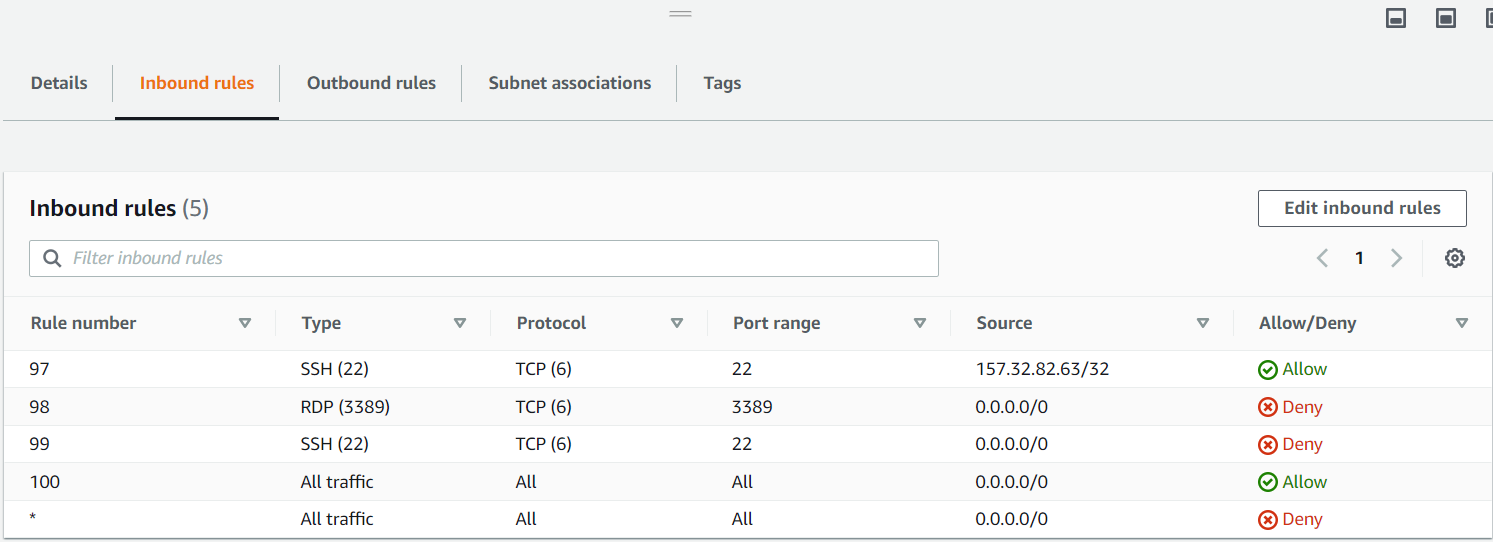
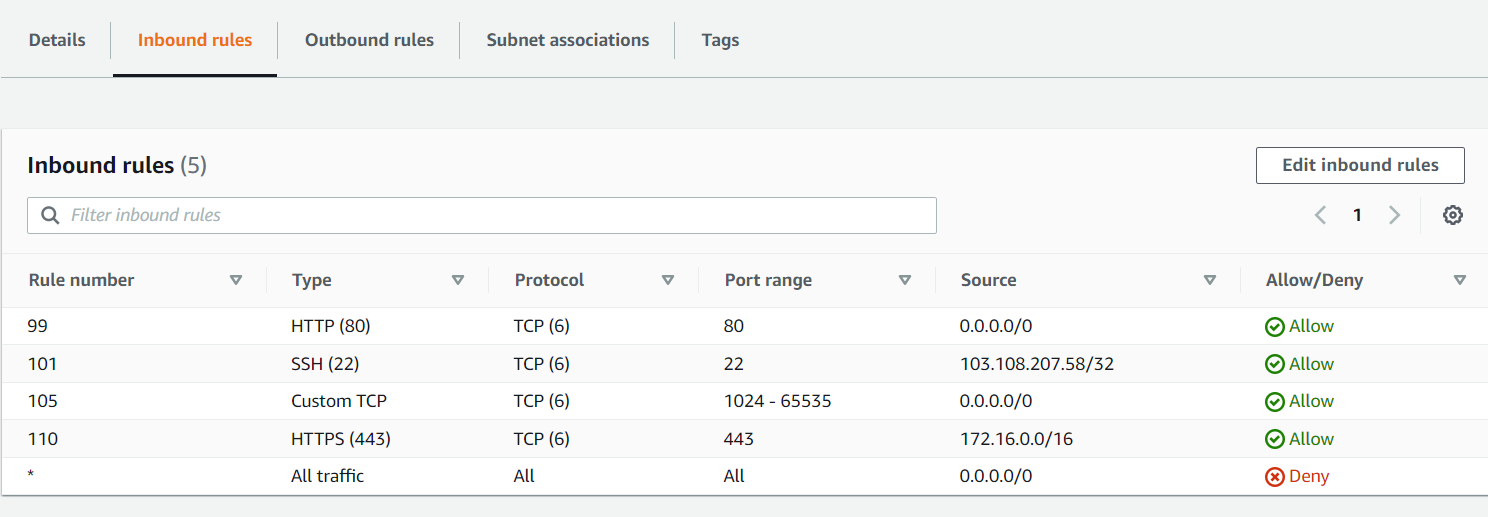
updating to latest
Adding updated files

diff --git a/README.md b/README.md
@@ -109,15 +109,18 @@ If you have your existing resources available, refer [ Customize Infrastructure 
 
 *Notes* <br/>
 *  *If you select **True** in **Create Application Load Balancer?**, then following implementations are applicable.* <br/>
-    * *Access logs for ALB will be enabled.* <br/>
-    * *S3 bucket and a respective bucket policy will be created for storing access logs of ALB. The name of ALB S3 bucket will be assigned as per the format given below.* <br/>
-    *Format: nce-REGION-STACK_ID* <br/>
-    *Example: nce-us-west-2-24c538a0-244d-11ed-9b54-025f9a3a09a6* <br/>
-	* *S3 logging bucket and a respective logging bucket policy will be created for storing server access logs of above-created ALB S3 bucket. The name of S3 logging bucket will be automatically assigned by the CloudFormation.* <br/>
-	*Format: STACK_NAME-loggingbucket-RANDOM_ALPHANUMERIC_STRING* <br/>
-	*Example: nce-loggingbucket-1aln42m8gv711* <br/>
+    * *Access logs for ALB will be enabled.*
+    * *S3 bucket and a respective bucket policy will be created for storing access logs of ALB. The name of S3 bucket will be assigned as per the format given below.* <br/>
+    *Format: netskope-ce-s3events-logs-STACK_ID* <br/>
+    *Example: netskope-ce-s3events-logs-24c538a0-244d-11ed-9b54-025f9a3a09a6* <br/>
+  	* *S3 logging bucket and a respective logging bucket policy will be created for storing server access logs of above-created ALB S3 bucket. The name of S3 logging bucket will be assigned as per the format given below.*
+    <br/>
+    *Format: netskope-ce-alb-logs-STACK_ID* <br/>
+    *Example: netskope-ce-alb-logs-24c538a0-244d-11ed-9b54-025f9a3a09a6* <br/>
     * *You can view logs in both these S3 buckets after stack creation.* <br/>
-	* *Post stack creation, for security reasons, it is recommended to enable bucket notifications manually for both the buckets created above by CloudFormation - [Ref](https://docs.aws.amazon.com/securityhub/latest/userguide/securityhub-standards-fsbp-controls.html#fsbp-s3-11).* <br/>
+	  * *Post stack creation, for security reasons, it is recommended to enable bucket notifications manually for both the buckets created above by CloudFormation - [Ref](https://docs.aws.amazon.com/securityhub/latest/userguide/securityhub-standards-fsbp-controls.html#fsbp-s3-11).* <br/>
+    * *HTTP listeners of Application Load Balancers aren't configured to redirect HTTP requests to HTTPS, based upon the best practices followed in organizations, HTTP listeners of ALB can be configured to redirect all HTTP requests to HTTPS.*
+    <br/>
 * *If you select **False** in **Create Application Load Balancer?**, then following implementations are applicable.* <br/>
   * *If you have selected **False** in **Create Application Load Balancer?** and **Existing ARN of target group for ALB** field is **Blank** - No ALB will be created.* <br/>
   * *If you have selected **False** in **Create Application Load Balancer?** and **Existing ARN of target group for ALB** field is **Provided** - Existing ALB will be Used.* <br/>
@@ -132,7 +135,8 @@ Enter the VPC name and CIDR Ranges for VPC, Private, and Public Subnets accordin
 
 *Notes* <br/>
 * *For security reasons, we have implemented in a way that,*
-  *  *The default Network ACL will allow ingress for all the traffic other than port 22 and 3389 from 0.0.0.0/0.*
+  * *The default Network ACL will allow ingress for all the traffic only for the port range of 1024-65535 from 0.0.0.0/0.*
+  * *The default Network ACL will allow ingress for port 443 from VPC CIDR only.*
   * *The VPC default security group will not allow any inbound and outbound traffic.*
 
 ![](./media/NETSKOPE-CE-Stack-NW-Details.png)
@@ -223,13 +227,16 @@ After the successful creation, you can see the list of resources by selecting th
 *  *If you select **True** in **Create Application Load Balancer?**, then following implementations are applicable.* <br/>
     * *Access logs for ALB will be enabled.* <br/>
     * *S3 bucket and a respective bucket policy will be created for storing access logs of ALB. The name of S3 bucket will be assigned as per the format given below.* <br/>
-    *Format: nce-REGION-STACK_ID* <br/>
-    *Example: nce-us-west-2-24c538a0-244d-11ed-9b54-025f9a3a09a6* <br/>
-	* *S3 logging bucket and a respective logging bucket policy will be created for storing server access logs of above-created ALB S3 bucket. The name of S3 logging bucket will be automatically assigned by the CloudFormation.* <br/>
-	*Format: STACK_NAME-loggingbucket-RANDOM_ALPHANUMERIC_STRING* <br/>
-	*Example: nce-loggingbucket-1aln42m8gv711* <br/>
+    *Format: netskope-ce-s3events-logs-STACK_ID* <br/>
+    *Example: netskope-ce-s3events-logs-24c538a0-244d-11ed-9b54-025f9a3a09a6* <br/>
+  	* *S3 logging bucket and a respective logging bucket policy will be created for storing server access logs of above-created ALB S3 bucket. The name of S3 logging bucket will be assigned as per the format given below.*
+    <br/>
+    *Format: netskope-ce-alb-logs-STACK_ID* <br/>
+    *Example: netskope-ce-alb-logs-24c538a0-244d-11ed-9b54-025f9a3a09a6* <br/>
     * *You can view logs in both these S3 buckets after stack creation.* <br/>
-	* *Post stack creation, for security reasons, it is recommended to enable bucket notifications manually for both the buckets created above by CloudFormation - [Ref](https://docs.aws.amazon.com/securityhub/latest/userguide/securityhub-standards-fsbp-controls.html#fsbp-s3-11).* <br/>
+	  * *Post stack creation, for security reasons, it is recommended to enable bucket notifications manually for both the buckets created above by CloudFormation - [Ref](https://docs.aws.amazon.com/securityhub/latest/userguide/securityhub-standards-fsbp-controls.html#fsbp-s3-11).* <br/>
+    * *HTTP listeners of Application Load Balancers aren't configured to redirect HTTP requests to HTTPS, based upon the best practices followed in organizations, HTTP listeners of ALB can be configured to redirect all HTTP requests to HTTPS.*
+    <br/>
 * *If you select **False** in **Create Application Load Balancer?**, then following implementations are applicable.* <br/>
   * *If you have selected **False** in **Create Application Load Balancer?** and **Existing ARN of target group for ALB** field is **Blank** - No ALB will be created.* <br/>
   * *If you have selected **False** in **Create Application Load Balancer?** and **Existing ARN of target group for ALB** field is **Provided** - Existing ALB will be Used.* <br/>
@@ -377,21 +384,21 @@ Go to ECS Console, select **Clusters** and relevant Cluster. The Cluster details
 
 ![](./media/NETSKOPE-CE-BH-SSH.png)
 
-6. Go to EC2 Console, Select **Security Groups** and relevant security group. Click on **Edit inbound rules** and allow 8000 port.
+7. Go to EC2 Console, Select **Security Groups** and relevant security group. Click on **Edit inbound rules** and allow 8000 port.
 
 ![](./media/NETSKOPE-CE-BH-SG.png)
 
-7. Go to VPC Console, Select **Network ACLs** and relevant Network ACL. Select the **Inbound rules** tab. Click on **Edit inbound rules** and add new rule for SSH from user's local machine.<br/>
+8. Go to VPC Console, Select **Network ACLs** and relevant Network ACL. Select the **Inbound rules** tab. Click on **Edit inbound rules** and add new rule for SSH from user's local machine and another rule for HTTP.<br/>
 *Note - Add your local machine IP Address in source tab.*
 
 ![](./media/NETSKOPE-CE-AA-NACL.png)
 
-8. Go to EC2 Console, Select **Load Balancers** and relevant ALB. The ALB details page for the selected ALB opens the information including the DNS Name of ALB. Copy the DNS Name of ALB to the clipboard.
+9. Go to EC2 Console, Select **Load Balancers** and relevant ALB. The ALB details page for the selected ALB opens the information including the DNS Name of ALB. Copy the DNS Name of ALB to the clipboard.
 
 ![](./media/NETSKOPE-CE-ALB-Details.png)
 
 
-9. Open Git Bash or terminal of end user's local system and paste the following command that initiates the port forwarding from the local system to AWS EC2 Instance.<br/>
+10. Open Git Bash or terminal of end user's local system and paste the following command that initiates the port forwarding from the local system to AWS EC2 Instance.<br/>
 *Note - If ALB was not used in deployment, go to 9.2 Applocation Load Balancer is not present.*
 
    **9.1 Application Load Balancer is present** <br/>
@@ -406,7 +413,7 @@ Go to ECS Console, select **Clusters** and relevant Cluster. The Cluster details
   ![](./media/NETSKOPE-CE-Port-Forward-without-ALB.png)
 
 
-10. Type *localhost:8000* in browser and access the application.
+11. Type *localhost:8000* in browser and access the application.
 
 ![](./media/NETSKOPE-CE-App-Localhost-Login.png)
 
